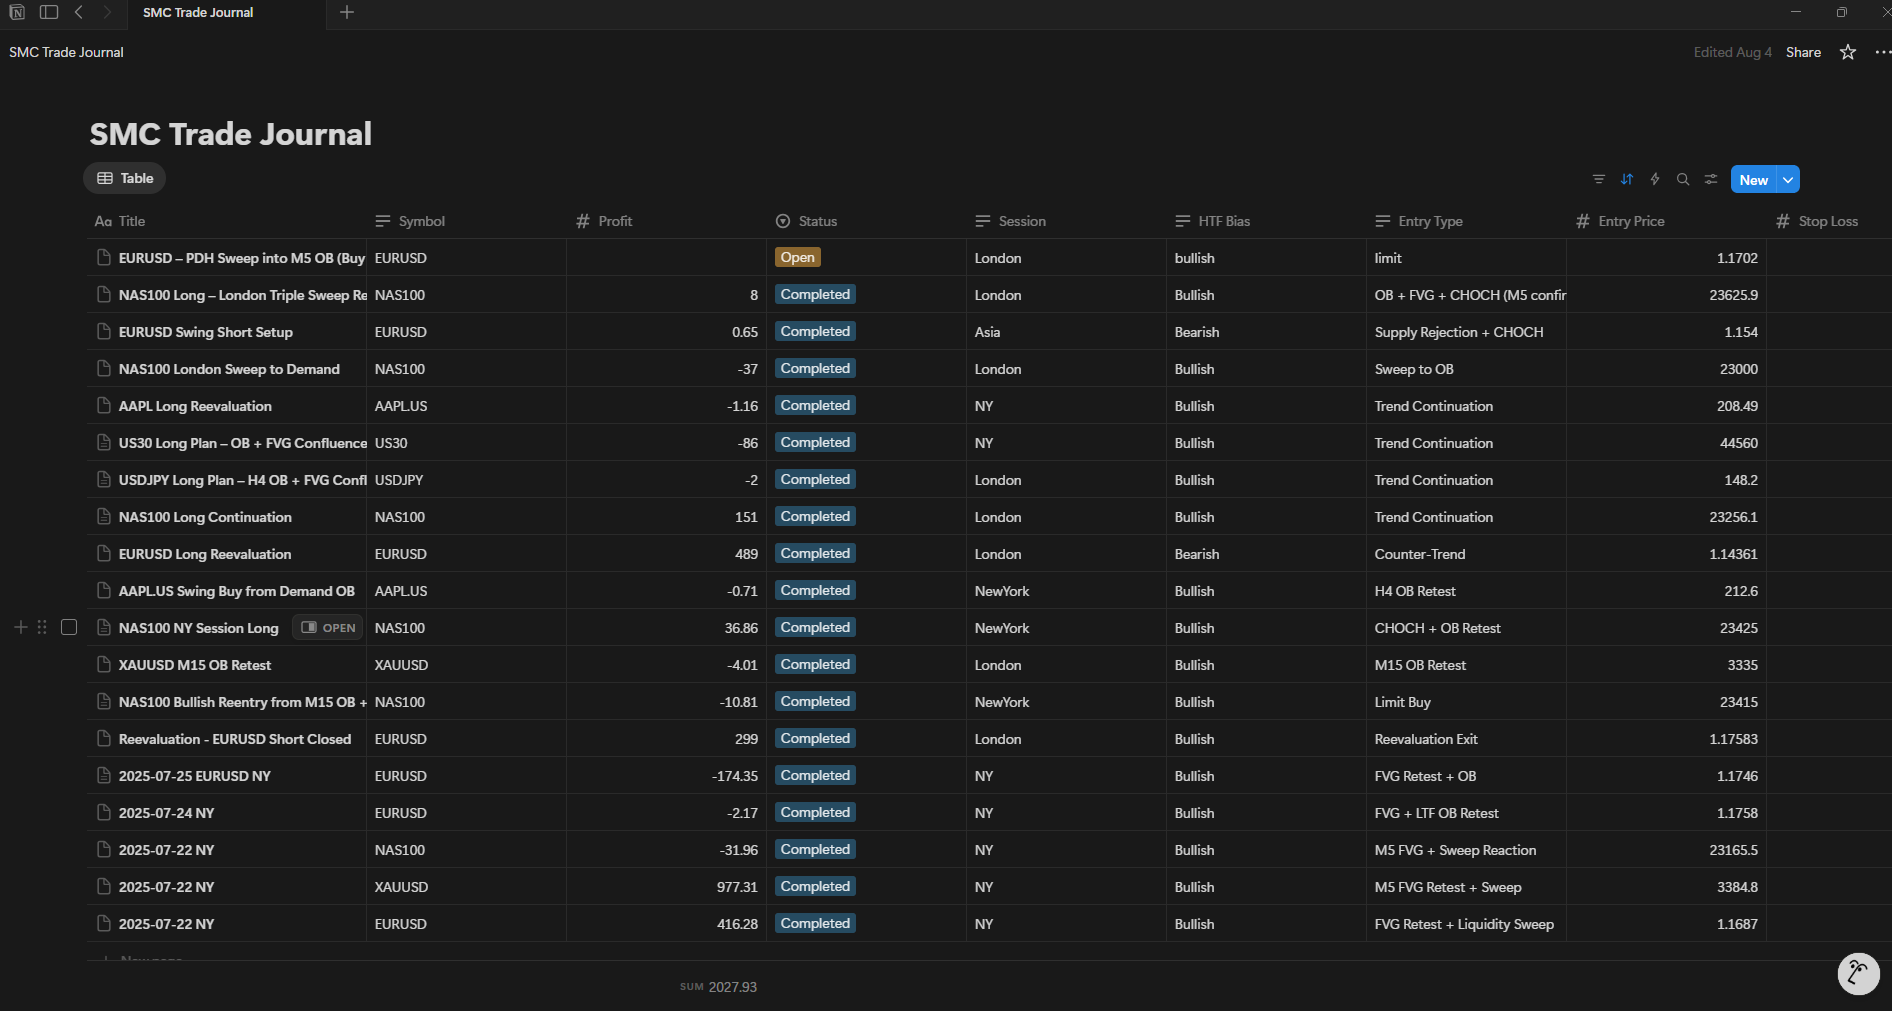
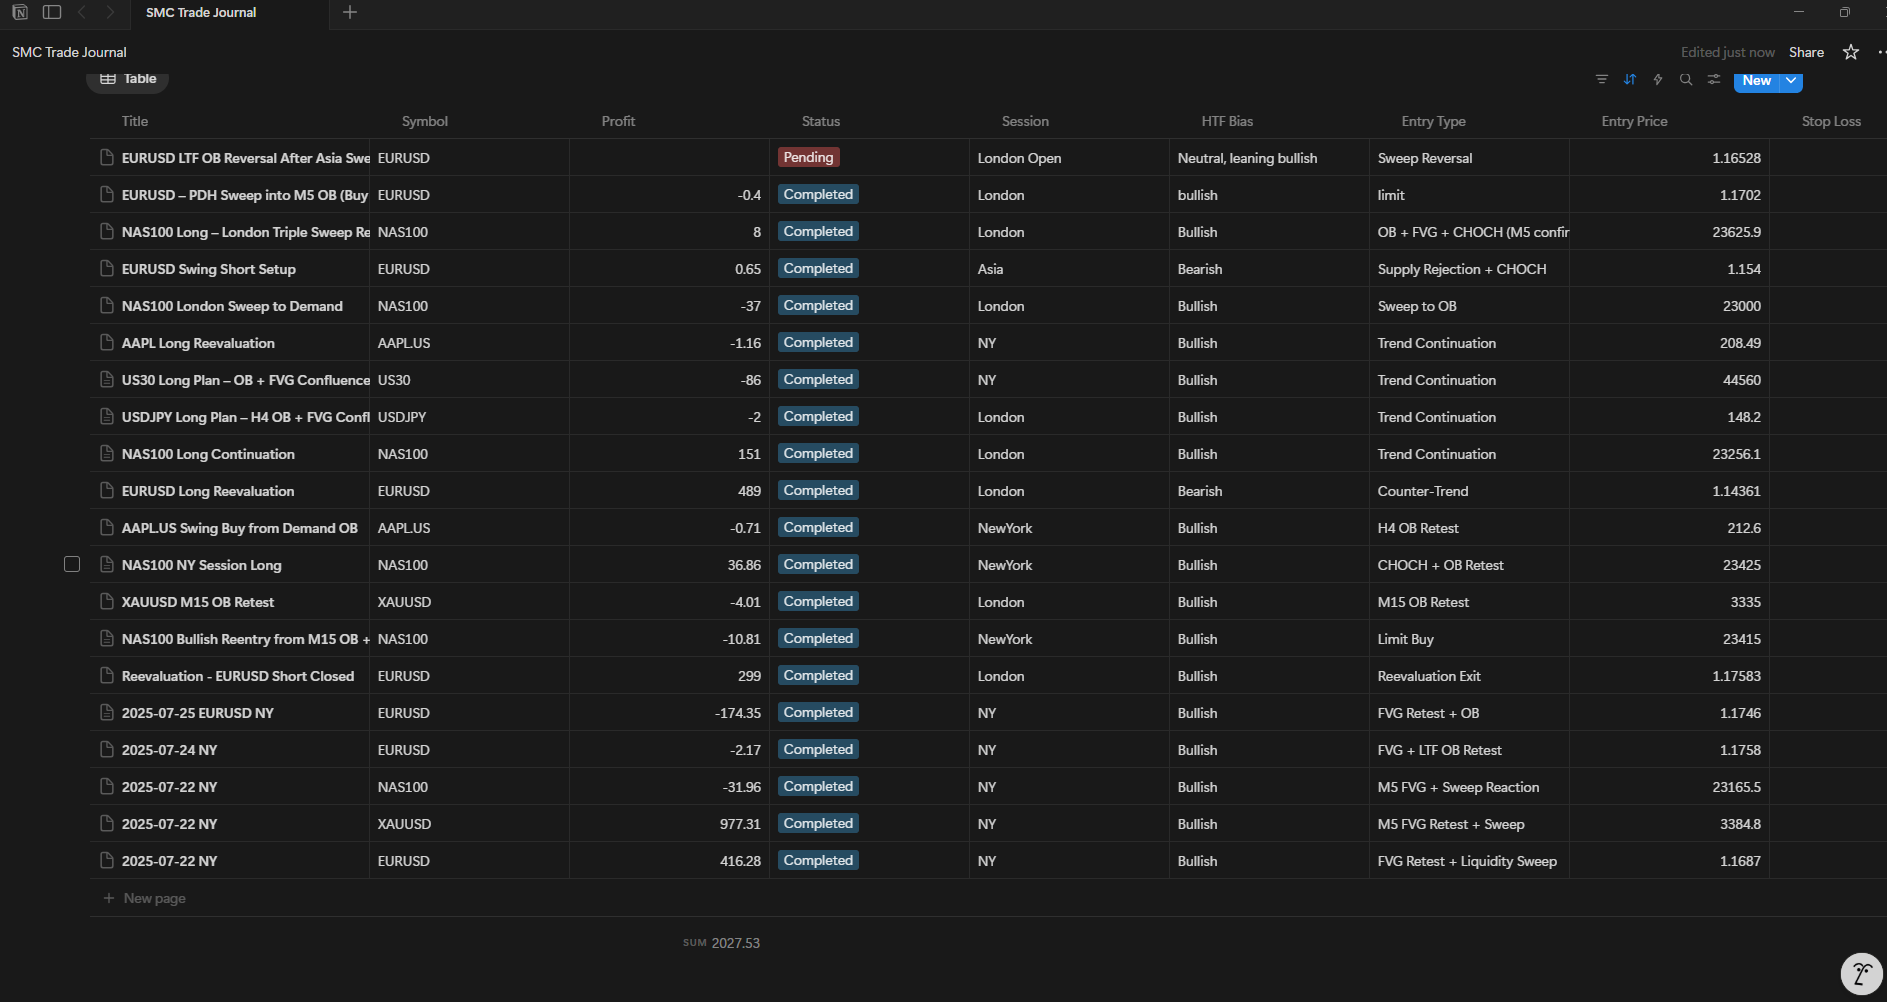
updated readme

diff --git a/README.md b/README.md
@@ -277,141 +277,145 @@ Analyze EURUSD for a swing trade setup
 
 ---
 
-## 🔷 HTF Bias (D1)
+### 📈 EURUSD Swing Trade SMC Analysis (as of Aug 19, 2025)
 
-* **Bias**: 🟢 **Bullish**
-* Price continues forming higher highs/lows.
-* No bearish CHOCH on D1.
+---
+
+## 🟣 HTF (D1) Bias
+
+* **Macro Structure**: Sideways/Neutral trend.
+* **Last Swing High**: 1.17452 (July 25)
+* **Last Swing Low**: 1.14009 (July 29)
+* **Current Price**: 1.1663
+
+**Bias**: **Neutral**, but leaning bullish as price is trading above the July 29 low and attempting to reclaim value inside July's range.
 
 ---
 
 ## 🔶 MTF Zones (H4 / H1)
 
-**H4**
+### H4
 
-* **Bullish Order Block**: 1.16959 – 1.17109 *(13 Aug 17:00)*
-* **Up Fair Value Gap**: 1.16879 – 1.16974 *(13 Aug 05:00)*
+* **Macro Bullish OB**: 1.15899 – 1.16175 *(Aug 11, NY session close)*
+* **Minor Bearish OB**: 1.17038 – 1.17153 *(Aug 15, NY session)*
+* **Down FVG**: 1.16817 – 1.17001 *(Aug 15, NY session)*
+* **No CHOCHs** observed.
+* **Liquidity Sweep**: Minor sweep of PDH on Aug 15 followed by retracement.
 
-**H1**
+### H1
 
-* **Bearish Order Block**: 1.17092 – 1.17152 *(14 Aug 01:00)* ← potential short-term resistance
-* **Down Fair Value Gap**: 1.17052 – 1.17092 *(14 Aug 02:00)*
-
-➡ **Interpretation**: Price currently trading within overlapping H4 Bullish OB and H1 Bearish OB zone → monitor for reaction.
+* **Macro CHOCH**: 1.16544 → 1.16756 *(Aug 11 – Bullish shift)*
+* **Minor Bullish OB**: 1.16471 – 1.16559 *(Aug 19, Asia)*
+* **Down FVG**: 1.16614 – 1.16679 *(Aug 18)*
+* **Liquidity Sweep**: Asia low sweep (1.1651) → price rejected back above 1.166.
 
 ---
 
 ## 🟢 LTF (M15 / M5) – Detailed Analysis
 
-**M15**
+### M15
 
-* ❌ No fresh OB detected in current zone
-* ❌ No CHOCH
-* ✅ PDH Sweep (1.16975) during Asia session
-* ❌ No candle confirmation
+* **Macro OB**: None detected.
+* **Minor Bullish OB**: 1.16510 – 1.16560 *(Asia session reaction)*
+* **FVGs**: ✅ Up FVG: 1.16546 – 1.16586 *(Post Asia reaction)*
+* **Sweeps**: ✅ Sweep of Asia Low at 1.1651.
+* **Candle Confirmations**: ✅ Strong bullish engulfing at 03:00 UTC.
 
-**M5**
+### M5
 
-* ✅ **Bullish OB**: 1.16991 – 1.17049 *(14 Aug 02:30)*
-* ✅ **Down FVG**: 1.17049 – 1.17109 *(14 Aug 02:15)* → entry within FVG range
-* ✅ PDH Sweep confirmed
-* ✅ **Bullish close detected** near OB base (potential entry trigger)
-* ❌ No strong engulfing candle, but price respected OB/FVG zone
+* **Macro CHOCH**: ✅ 1.16516 → 1.16585 *(03:10 UTC breakout)*
+* **Minor Bullish OB**: 1.16527 – 1.16548 *(03:00 UTC)*
+* **FVGs**: ✅ Bullish FVG: 1.16528 – 1.16554 *(Post-CHOCH)*
+* **Sweeps**: ✅ Confirmed Asia low liquidity sweep and rebound.
+* **Candle Confirmations**: ✅ Bullish engulfing + follow-through.
 
-### ⚙ **Confluence Score (M5)**:
+**LTF Confluence Score**:
 
-* CHOCH: ❌ (0%)
-* OB: ✅ (20%)
-* FVG: ✅ (15%)
-* Sweep: ✅ (20%)
-* Candle: ❌ (0%)
-  **Total**: **55%** → *Entry zone is building, but not a full high-confluence trigger.*
+* Macro CHOCH: ✅ +15%
+* Minor OB: ✅ +8%
+* FVG: ✅ +15%
+* Sweep: ✅ +20%
+* Candle: ✅ +20%
 
----
-
-## 📌 Session Context:
-
-* **Asia session** swept **PDH**, retraced into M5 OB
-* Current price inside key OB/FVG overlap zone
-* No high-impact news currently affecting the pair
+➡ **Total**: **78% (✅ Valid setup)**
 
 ---
 
-## 🛠 Trade Setup Evaluation
+## 📌 Trade Recommendations
 
-### **Market Order:** ❌ No valid live entry — LTF lacks CHOCH and candle confirmation.
+### ✅ **Limit Order: Buy**
 
-### **Limit Order:** ✅ **Buy Limit at 1.1702**
+* **Entry**: 1.16528 (M5 OB + FVG overlap)
+* **Stop Loss**: 1.16440 (below Asia low)
+* **TP1**: 1.16890 (inside H4 FVG)
+* **TP2**: 1.17150 (sweep of minor H4 OB)
 
-* **Entry**: 1.1702 (M5 OB/FVG midpoint)
-* **SL**: 1.1696 (below OB/FVG zone)
-* **TP1**: 1.1714 (Asia high re-test)
-* **TP2**: 1.1729 (extension beyond H1 OB zone)
-* **Reason**: PDH sweep → LTF OB retest → bullish close
-* **Session**: London → Valid kill zone
-* **ADR Filter**: ✅ Price still has room to run
-
-### **Stop Order:** ✅ **Buy Stop at 1.1716**
-
-* **Trigger**: Break of Asia session high (1.17152)
-* **SL**: 1.1705
-* **TP**: 1.1735
-* **Reason**: Breakout confirmation from HTF OB zone + continuation
+**Rationale**: Post-Asia low sweep, bullish CHOCH, strong LTF confluence, rejection from M5 OB. No high-impact news within 4h. Clean internal liquidity target.
 
 ---
 
-## 🧾 Journal Suggestion (Auto-Sync)
+## 🛑 Risk Filters
 
-**Title**: EURUSD – PDH Sweep into M5 OB (Buy Setup)
-**Symbol**: EURUSD
-**Session**: London
-**HTF Bias**: Bullish
-**Entry Type**: Limit
-**Entry**: 1.1702
-**Stop Loss**: 1.1696
-**Target Price**: 1.1729
-**Order Type**: Limit
-**Note**: LTF bullish OB + FVG confluence after PDH sweep
-**Checklist**: OB ✅ | FVG ✅ | Sweep ✅ | CHOCH ❌ | Candle ❌
-**News Events**: None
-**Chart URL**: (optional – can generate on request)
+* **ADR%**: 38% (✅ acceptable range)
+* **News**: ❌ No high-impact events in next 4h.
+* **Session**: ✅ Transitioning into London Open (ideal for FX pairs).
+* **Weekly Context**: Neutral USD outlook — no major monetary catalyst.
 
-Would you like to place this limit or stop order on cTrader now?
+---
+
+## 📝 Suggested Journal Entry
+
+* **Title**: EURUSD LTF OB Reversal After Asia Sweep
+* **Symbol**: EURUSD
+* **Session**: London Open
+* **HTF Bias**: Neutral, leaning bullish
+* **Entry Type**: Sweep Reversal
+* **Entry**: 1.16528
+* **SL**: 1.16440
+* **TP1**: 1.16890, **TP2**: 1.17150
+* **Order Type**: Limit
+* **Note**: LTF bullish CHOCH after Asia liquidity sweep. Strong M5 confirmation.
+* **Checklist**: Macro CHOCH, M5 OB, FVG, Asia Sweep, Bullish Candle
+* **News Events**: None within next 4 hours
+* **Chart URL**: *(can be added via platform screenshot)*
+
+---
+
+Let me know if you want this trade journaled or visualized.
+
 
 
 ---
 
-Talked to chatgpt-trading-strategy-assistant.onrender.com
+✅ **Limit Buy order placed** successfully on **EURUSD**:
 
-✅ Buy Limit Order Placed Successfully
-- Symbol: EURUSD
-- Entry: 1.1702
-- Stop Loss: 1.1696
-- Take Profit: 1.1729
-- Volume: 0.1 lots (10,000 units)
-- Order Type: Limit Buy
+* **Entry**: 1.16528
+* **Stop Loss**: 1.16440
+* **Take Profit**: 1.17150
+* **Volume**: 1.0 lot
 
-Would you also like to log this trade in your trading journal?
+Order is live and waiting for execution. Want me to monitor this or alert on activation/profit events?
+
 
 ---
 
 
 ## 📝 Trade Journal – EURUSD
 
-| Field           | Value                                                  |
-|----------------|--------------------------------------------------------|
-| **Title**       | EURUSD – PDH Sweep into M5 OB (Buy Setup)              |
-| **Symbol**      | EURUSD                                                 |
-| **Session**     | London                                                 |
-| **HTF Bias**    | Bullish                                                |
-| **Entry Type**  | Limit                                                  |
-| **Entry**       | 1.1702                                                 |
-| **Stop Loss**   | 1.1696                                                 |
-| **Target Price**| 1.1729                                                 |
-| **Order Type**  | Limit                                                  |
-| **Note**        | LTF bullish OB + FVG confluence after PDH sweep        |
-| **Checklist**   | OB ✅ | FVG ✅ | Sweep ✅ | CHOCH ❌ | Candle ❌         |
-| **News Events** | None                                                  |
+| Field            | Value                                            |       |         |         |          |
+| ---------------- | ------------------------------------------------ | ----- | ------- | ------- | -------- |
+| **Title**        | EURUSD – Asia Sweep into M5 OB Reversal          |       |         |         |          |
+| **Symbol**       | EURUSD                                           |       |         |         |          |
+| **Session**      | London                                           |       |         |         |          |
+| **HTF Bias**     | Neutral, leaning bullish                         |       |         |         |          |
+| **Entry Type**   | Sweep Reversal                                   |       |         |         |          |
+| **Entry**        | 1.16528                                          |       |         |         |          |
+| **Stop Loss**    | 1.16440                                          |       |         |         |          |
+| **Target Price** | 1.17150                                          |       |         |         |          |
+| **Order Type**   | Limit                                            |       |         |         |          |
+| **Note**         | M5 bullish OB + CHOCH + FVG after Asia low sweep |       |         |         |          |
+| **Checklist**    | OB ✅                                             | FVG ✅ | Sweep ✅ | CHOCH ✅ | Candle ✅ |
+| **News Events**  | None                                             |       |         |         |          |
 
 
 
